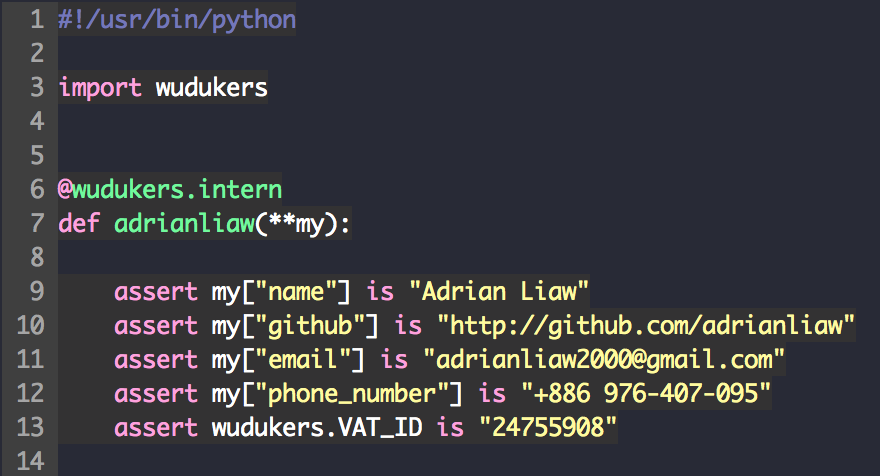
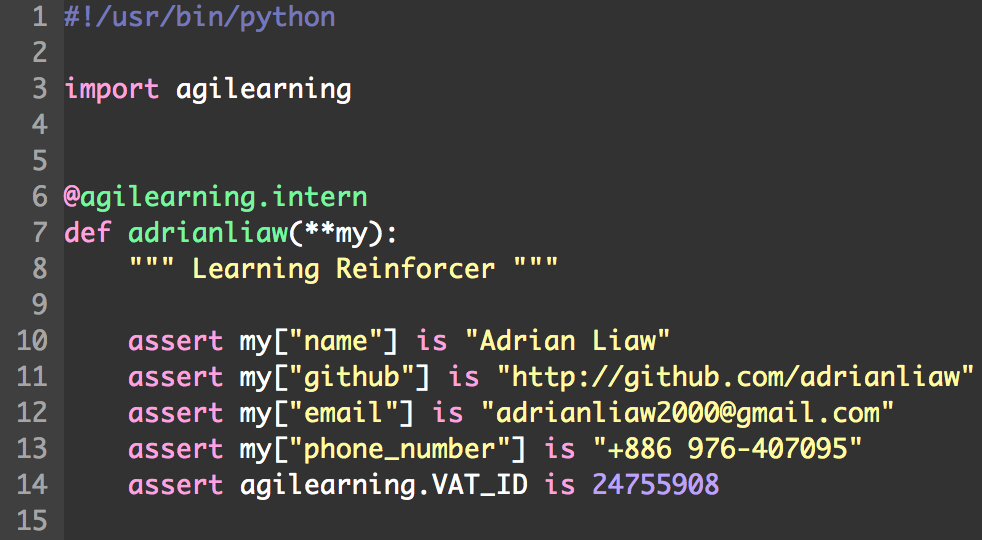
agilearning

diff --git a/chihcheng.py b/chihcheng.py
@@ -1,15 +1,16 @@
 #!/usr/bin/python
  
-import wudukers
+import agilearning
  
  
-@wudukers.intern
+@agilearning.intern
 def chihcheng(**my):
+    """ Learning Supervisor """
  
     assert my["name"] is "Chih-Cheng Liang"
     assert my["github"] is "http://github.com/ChihChengLiang"
     assert my["email"] is "chihchengliang@gmail.com"
-    assert my["phone_number"] is "+886 921-315-607"
-    assert wudukers.VAT_ID is "24755908"
+    assert my["phone_number"] is "+886 921-315607"
+    assert agilearning.VAT_ID is 24755908
 
 

diff --git a/c3h3.py b/c3h3.py
@@ -1,15 +1,16 @@
 #!/usr/bin/python
 
-import wudukers
+import agilearning
 
 
-@wudukers.cofounder
+@agilearning.cofounder
 def c3h3(**my):
+    """ Learning Booster """
 
     assert my["name"] is "Chia-Chi Chang"
     assert my["github"] is "http://github.com/c3h3"
     assert my["email"] in ["c3h3.tw@gmail.com", "c3h3@wudukers.com"]
-    assert my["phone_number"] is "+886 988-209-252"
-    assert wudukers.VAT_ID is "24755908"
+    assert my["phone_number"] is "+886 988-209252"
+    assert agilearning.VAT_ID is 24755908
 
 

diff --git a/adrianliaw.py b/adrianliaw.py
@@ -1,15 +1,16 @@
 #!/usr/bin/python
 
-import wudukers
+import agilearning
 
 
-@wudukers.intern
+@agilearning.intern
 def adrianliaw(**my):
+    """ Learning Reinforcer """
 
     assert my["name"] is "Adrian Liaw"
     assert my["github"] is "http://github.com/adrianliaw"
     assert my["email"] is "adrianliaw2000@gmail.com"
-    assert my["phone_number"] is "+886 976-407-095"
-    assert wudukers.VAT_ID is "24755908"
+    assert my["phone_number"] is "+886 976-407095"
+    assert agilearning.VAT_ID is 24755908
 
 

diff --git a/README.md b/README.md
@@ -4,14 +4,11 @@ Name Cards of Wudukers
 ### c3h3
 ![](images/c3h3.png)
 
-### qmal
-![](images/qmal.png)
-
-### hsiang
-![](images/hsiang.png)
-
 ### adrianliaw
 ![](images/adrianliaw.png)
 
 ### chihcheng
 ![](images/chihcheng.png)
+
+### hsiang
+![](images/hsiang.png)
